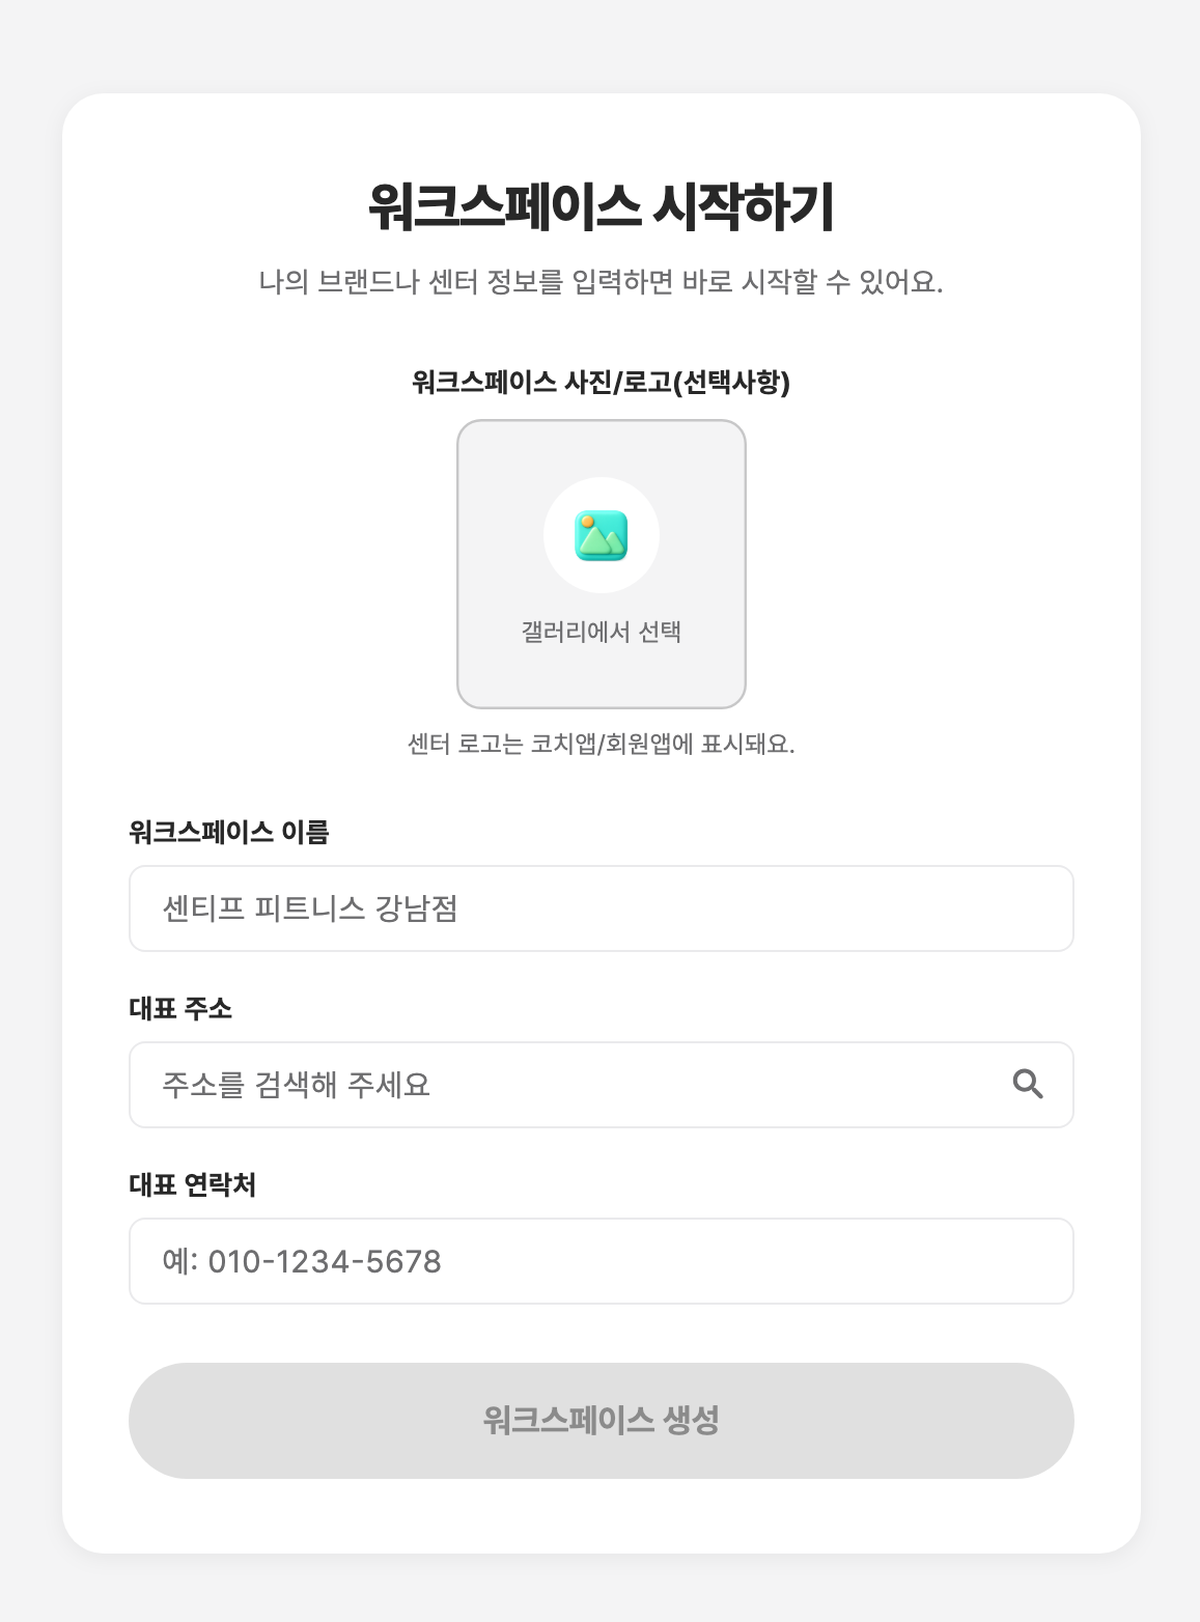
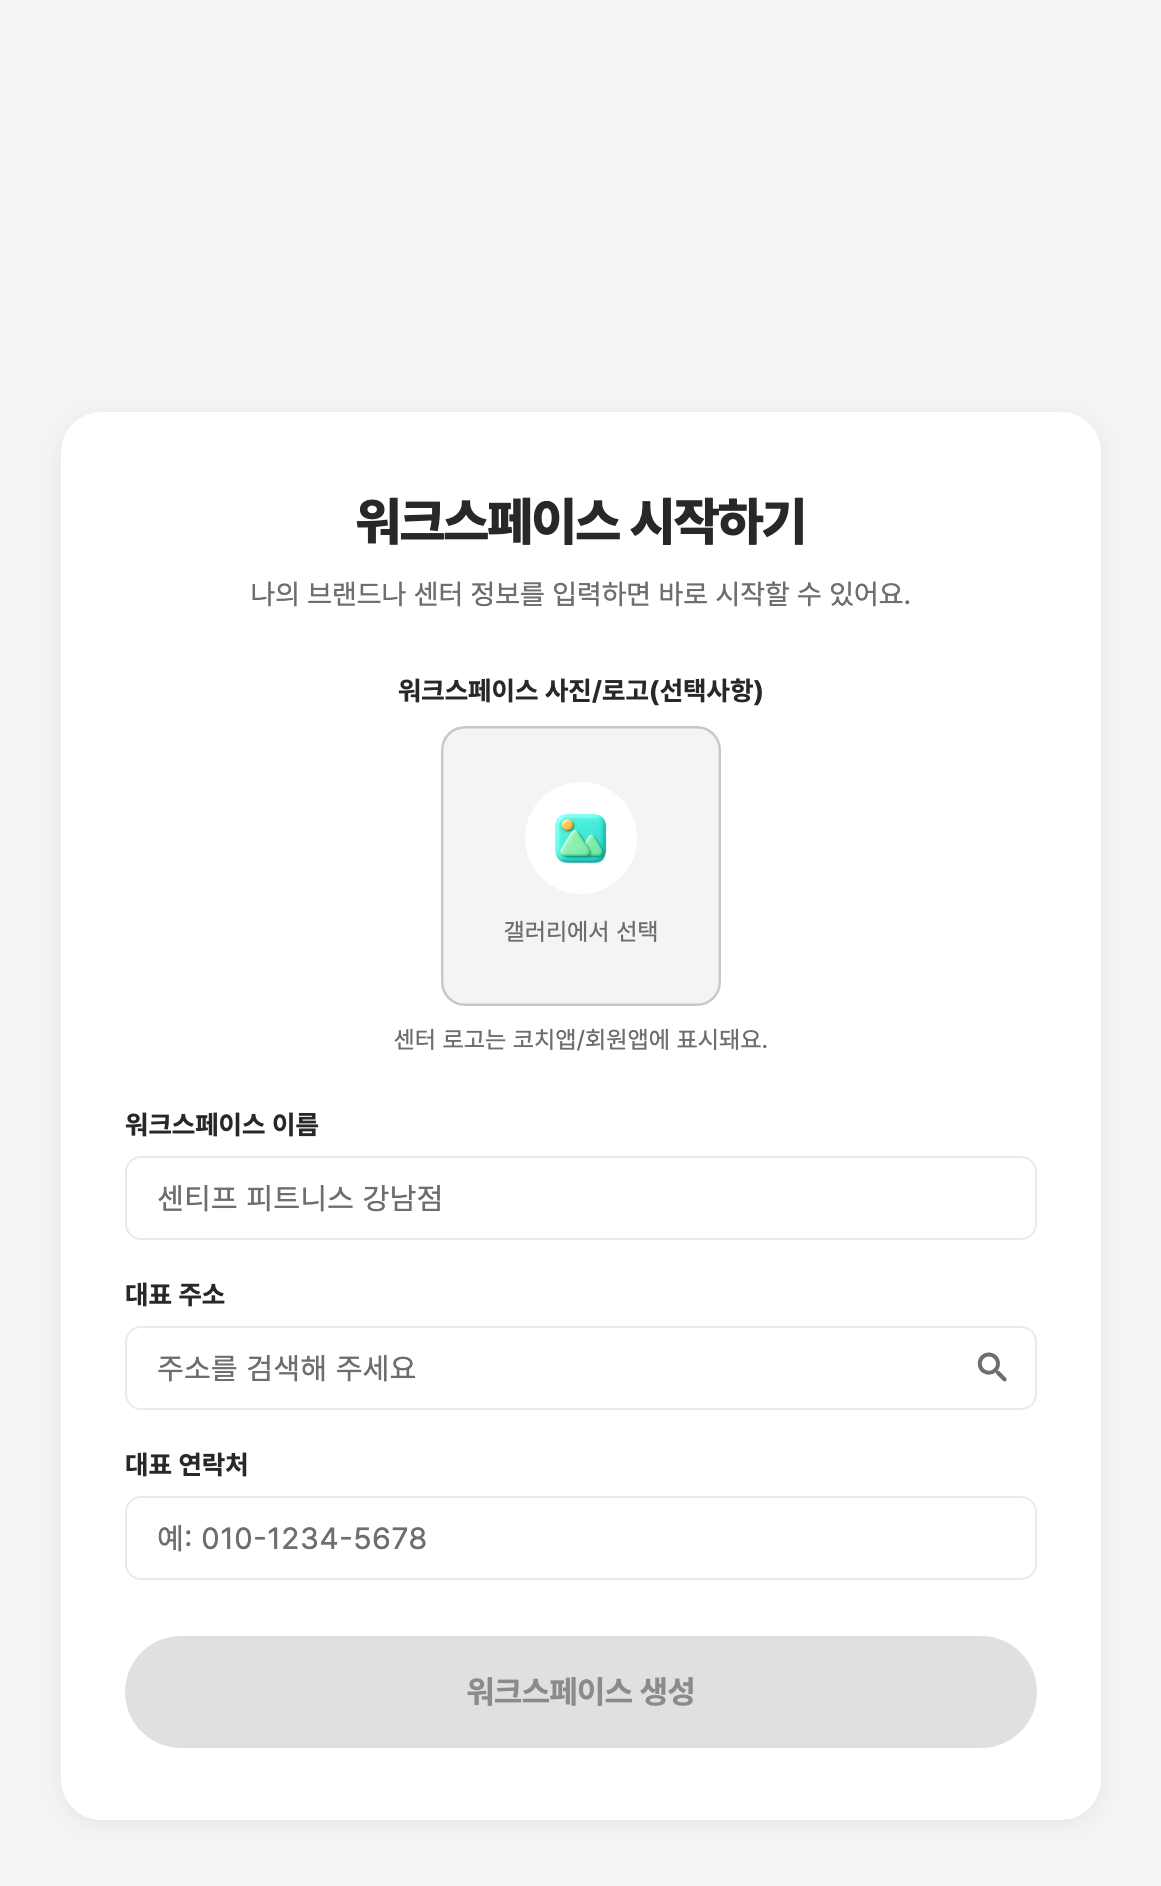
가이드 계정 탈퇴 절 임시 문구 전환 + tofu 수정본 재캡처
- 계정 탈퇴: 앱 내 기능이 아직 동작하지 않아(onTap 미구현) 단계 안내 대신
  카카오톡 채널 요청으로 전환하고 '준비 중'임을 명시. 따라 했는데 아무 일도
  일어나지 않는 안내를 라이브에 두지 않기 위함.
- 앱의 FilledButton fontFamily 누락이 수정되어 [신규 상품 생성]·[+ 운동 추가]가
  정상 렌더 → 잘라냈던 영역을 되살려 재캡처(14-products, 23-class-log).
- 03-workspace-create 크롭을 빌드 스크립트에 반영해 재빌드 시 재현되게 함.

diff --git a/guide.html b/guide.html
@@ -316,9 +316,11 @@
           </div>
 
           <h4 class="g-sub">3. 계정 탈퇴</h4>
-          <div class="g-step"><span class="g-step-num">1</span><p>하단 <strong>[프로필]</strong> 탭 → <strong>[계정 관리]</strong>로 들어갑니다.</p></div>
-          <div class="g-step"><span class="g-step-num">2</span><p><strong>[계정 탈퇴]</strong>를 눌러 탈퇴를 진행합니다.</p></div>
-          <div class="g-callout warn">⚠ <div>계정을 삭제하면 작성한 수업 일지, 회원 기록, 상품 발급 내역이 함께 삭제됩니다. <strong>삭제된 데이터는 복구되지 않으며, 계정을 다시 만들어도 이전 기록은 되돌아오지 않습니다.</strong> 이용에 불편한 점이 있다면 삭제 전에 카카오채널로 문의해주세요.</div></div>
+          <p class="g-intro">계정 탈퇴는 <strong>카카오톡 채널 &ldquo;센티프 SSENTIF&rdquo;</strong>로 요청해주세요. 확인 후 처리해드립니다.</p>
+          <div class="g-step"><span class="g-step-num">1</span><p>카카오톡에서 <strong>센티프 SSENTIF</strong> 채널을 찾아 <strong>탈퇴 요청</strong>을 남겨주세요.</p></div>
+          <div class="g-step"><span class="g-step-num">2</span><p>본인 확인 후 계정과 관련 데이터를 삭제해드립니다.</p></div>
+          <div class="g-callout warn">⚠ <div>계정을 삭제하면 작성한 수업 일지, 회원 기록, 상품 발급 내역이 함께 삭제됩니다. <strong>삭제된 데이터는 복구되지 않으며, 계정을 다시 만들어도 이전 기록은 되돌아오지 않습니다.</strong> 이용에 불편한 점이 있어 고민 중이시라면, 탈퇴 전에 먼저 채널로 말씀해주세요.</div></div>
+          <div class="g-callout">💡 <div>앱 안에서 바로 탈퇴하는 기능은 <strong>준비 중</strong>입니다. 제공되면 이 문서에서 다시 안내드리겠습니다.</div></div>
         </article>
 
 <article class="g-item" id="workspace">
@@ -518,7 +520,7 @@
 
           <figure class="g-shot">
             <img src="assets/guide/14-products.png" alt="상품 관리 화면 — 분류 필터와 상품 카드 목록, 판매 중 토글" loading="lazy">
-            <figcaption>상품 관리(관리자 모드) — 분류별 필터와 상품 카드. [신규 상품 생성]은 화면 우측 상단에 있습니다</figcaption>
+            <figcaption>상품 관리(관리자 모드) — 우측 상단 [신규 상품 생성], 분류별 필터와 상품 카드</figcaption>
           </figure>
 
           <div class="g-callout">💡 <div>여러 상품을 한 번에 파는 패키지는 <strong>결합상품</strong>으로 만들면 됩니다. 예) 개인수업 30회 + 운동복 세트 + 락커 6개월.</div></div>

diff --git a/_checkpoints/guide-page/capture/build_guide_assets2.py b/_checkpoints/guide-page/capture/build_guide_assets2.py
@@ -88,7 +88,9 @@ def build(name, out, trim=False, crop=None):
 JOBS = [
     ("login_portrait_social_light", "01-login", {}),
     ("guide_signup", "02-signup", {}),
-    ("workspace_create_portrait", "03-workspace-create", {}),
+    # 카드 주변 여백이 화면의 절반이라 카드 기준으로 좁힌다.
+    ("workspace_create_portrait", "03-workspace-create",
+     {"crop": (0.146, 0.051, 0.854, 0.850)}),
     ("portrait_nav_coach_phone_light", "04-modes", {}),
     ("guide_settings", "05-profile", {}),
     ("guide_account_settings", "06-account", {}),
@@ -100,8 +102,7 @@ JOBS = [
     # 하단 시트 — barrier 가 위쪽만 검정이라 자동 트림이 걸리지 않는다.
     ("guide_member_link", "12-member-link", {"crop": (0.0, 0.0, 1.0, 0.415)}),
     ("info_tab_delete_light", "13-member-delete", {}),
-    # 우측 상단 CTA 라벨이 캡처 환경 폰트 폴백으로 □ 로 찍혀 헤더 밴드를 제외한다.
-    ("guide_products", "14-products", {"crop": (0.0, 0.085, 1.0, 1.0)}),
+    ("guide_products", "14-products", {}),
     ("guide_membership_issue", "15-membership-issue", {"trim": True}),
     ("membership_tab_light", "16-membership-tab", {}),
     ("membership_payment_edit_light", "17-membership-edit", {"trim": True}),
@@ -110,8 +111,7 @@ JOBS = [
     ("session_detail_dialog_light", "20-attendance", {"trim": True}),
     ("guide_exercise_library", "21-exercise-library", {}),
     ("custom_exercise_video_field_light", "22-custom-exercise", {"trim": True}),
-    # 좌하단 '운동 추가' 버튼이 같은 폰트 폴백 이슈로 □ — 빈 세트 행과 함께 잘라낸다.
-    ("guide_class_log", "23-class-log", {"crop": (0.0, 0.0, 1.0, 0.62)}),
+    ("guide_class_log", "23-class-log", {}),
     ("previous_records_dialog_light", "24-previous-records", {"trim": True}),
     ("member_activity_feedback_tablet_light", "25-member-verify", {"trim": True}),
     ("guide_activity_daily", "26-activity-tab", {}),
